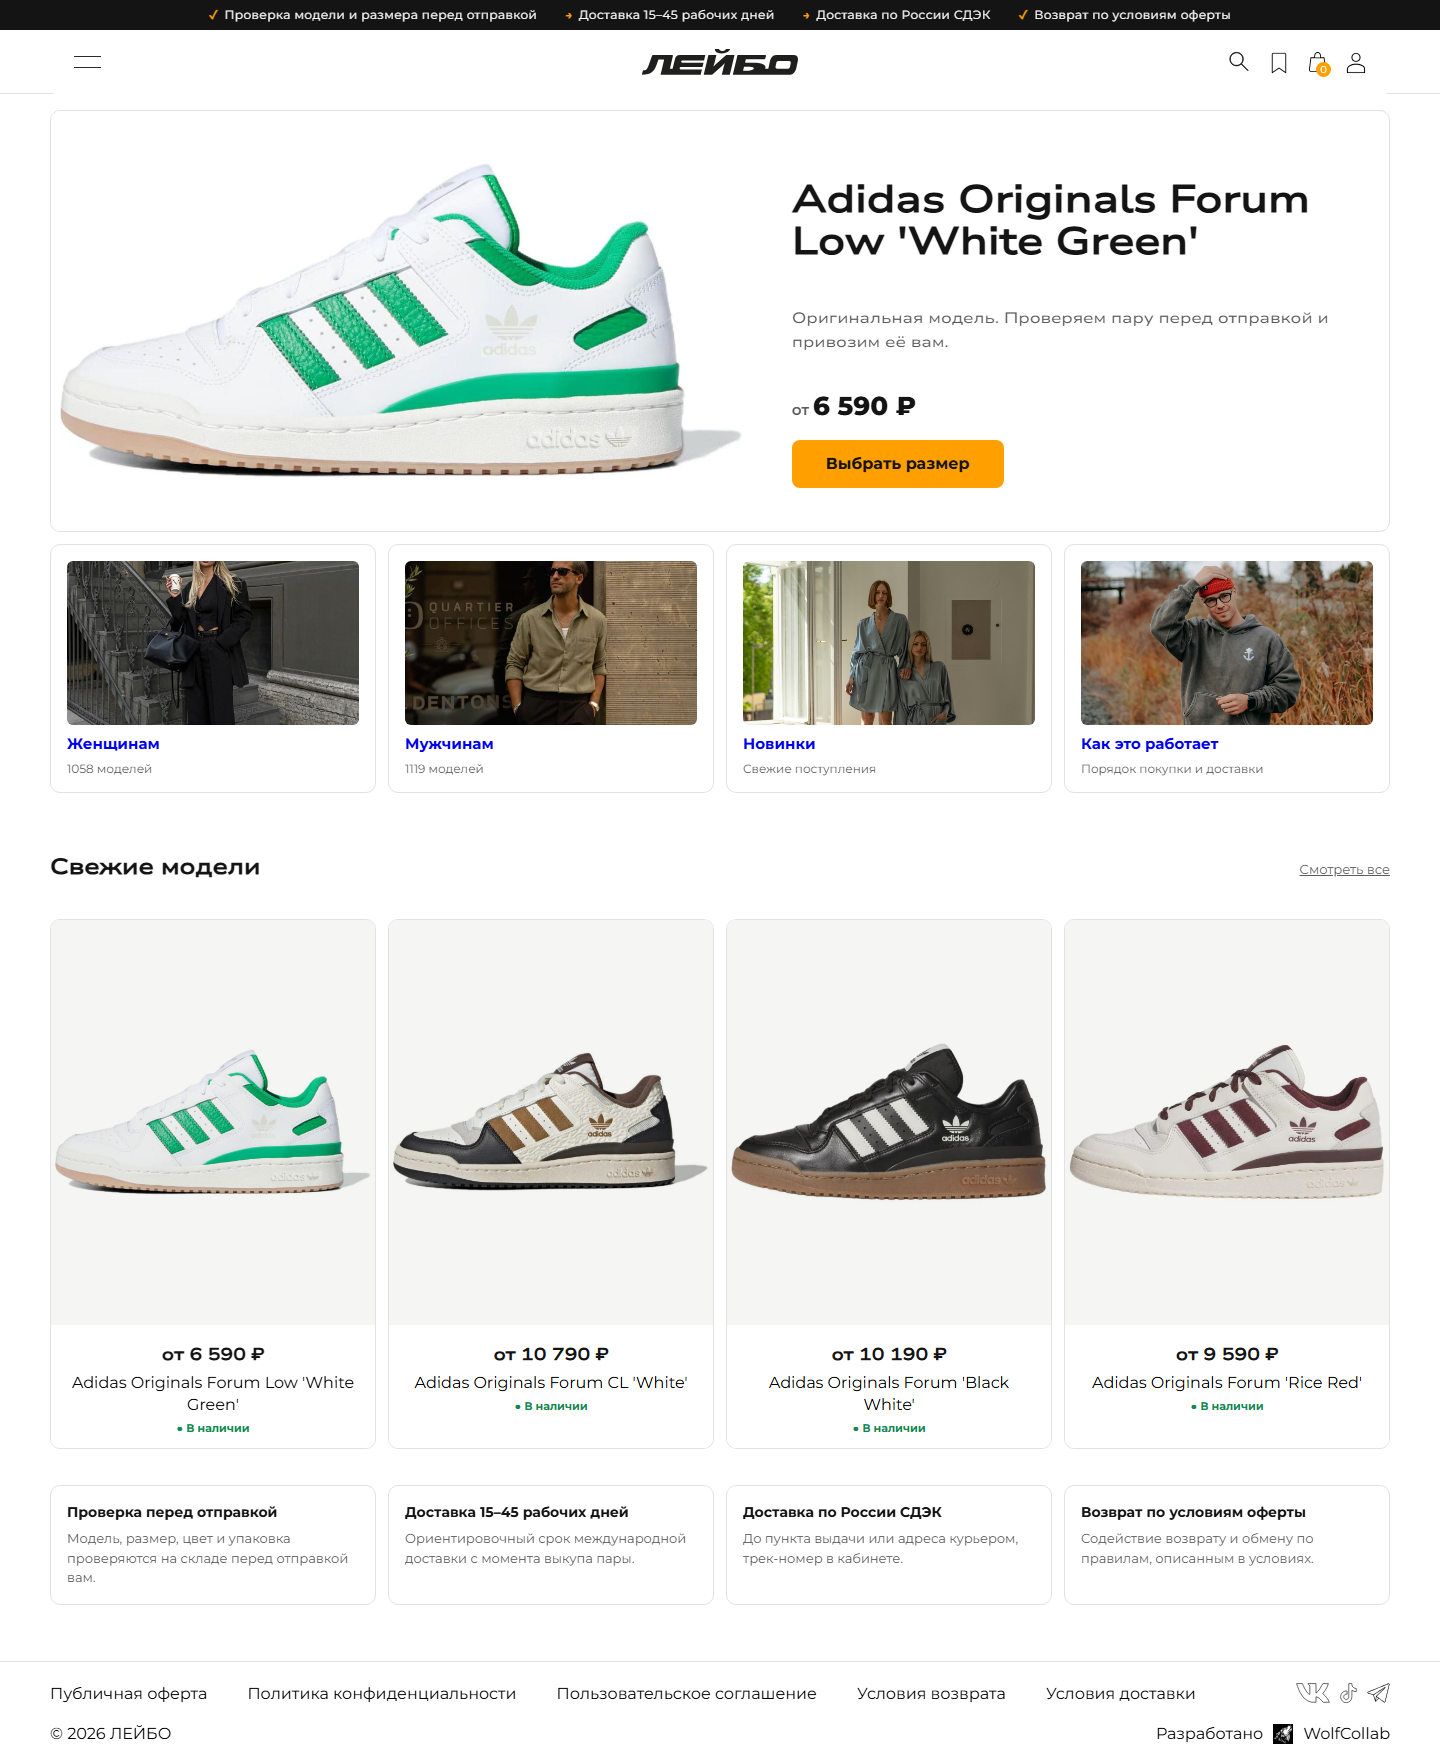
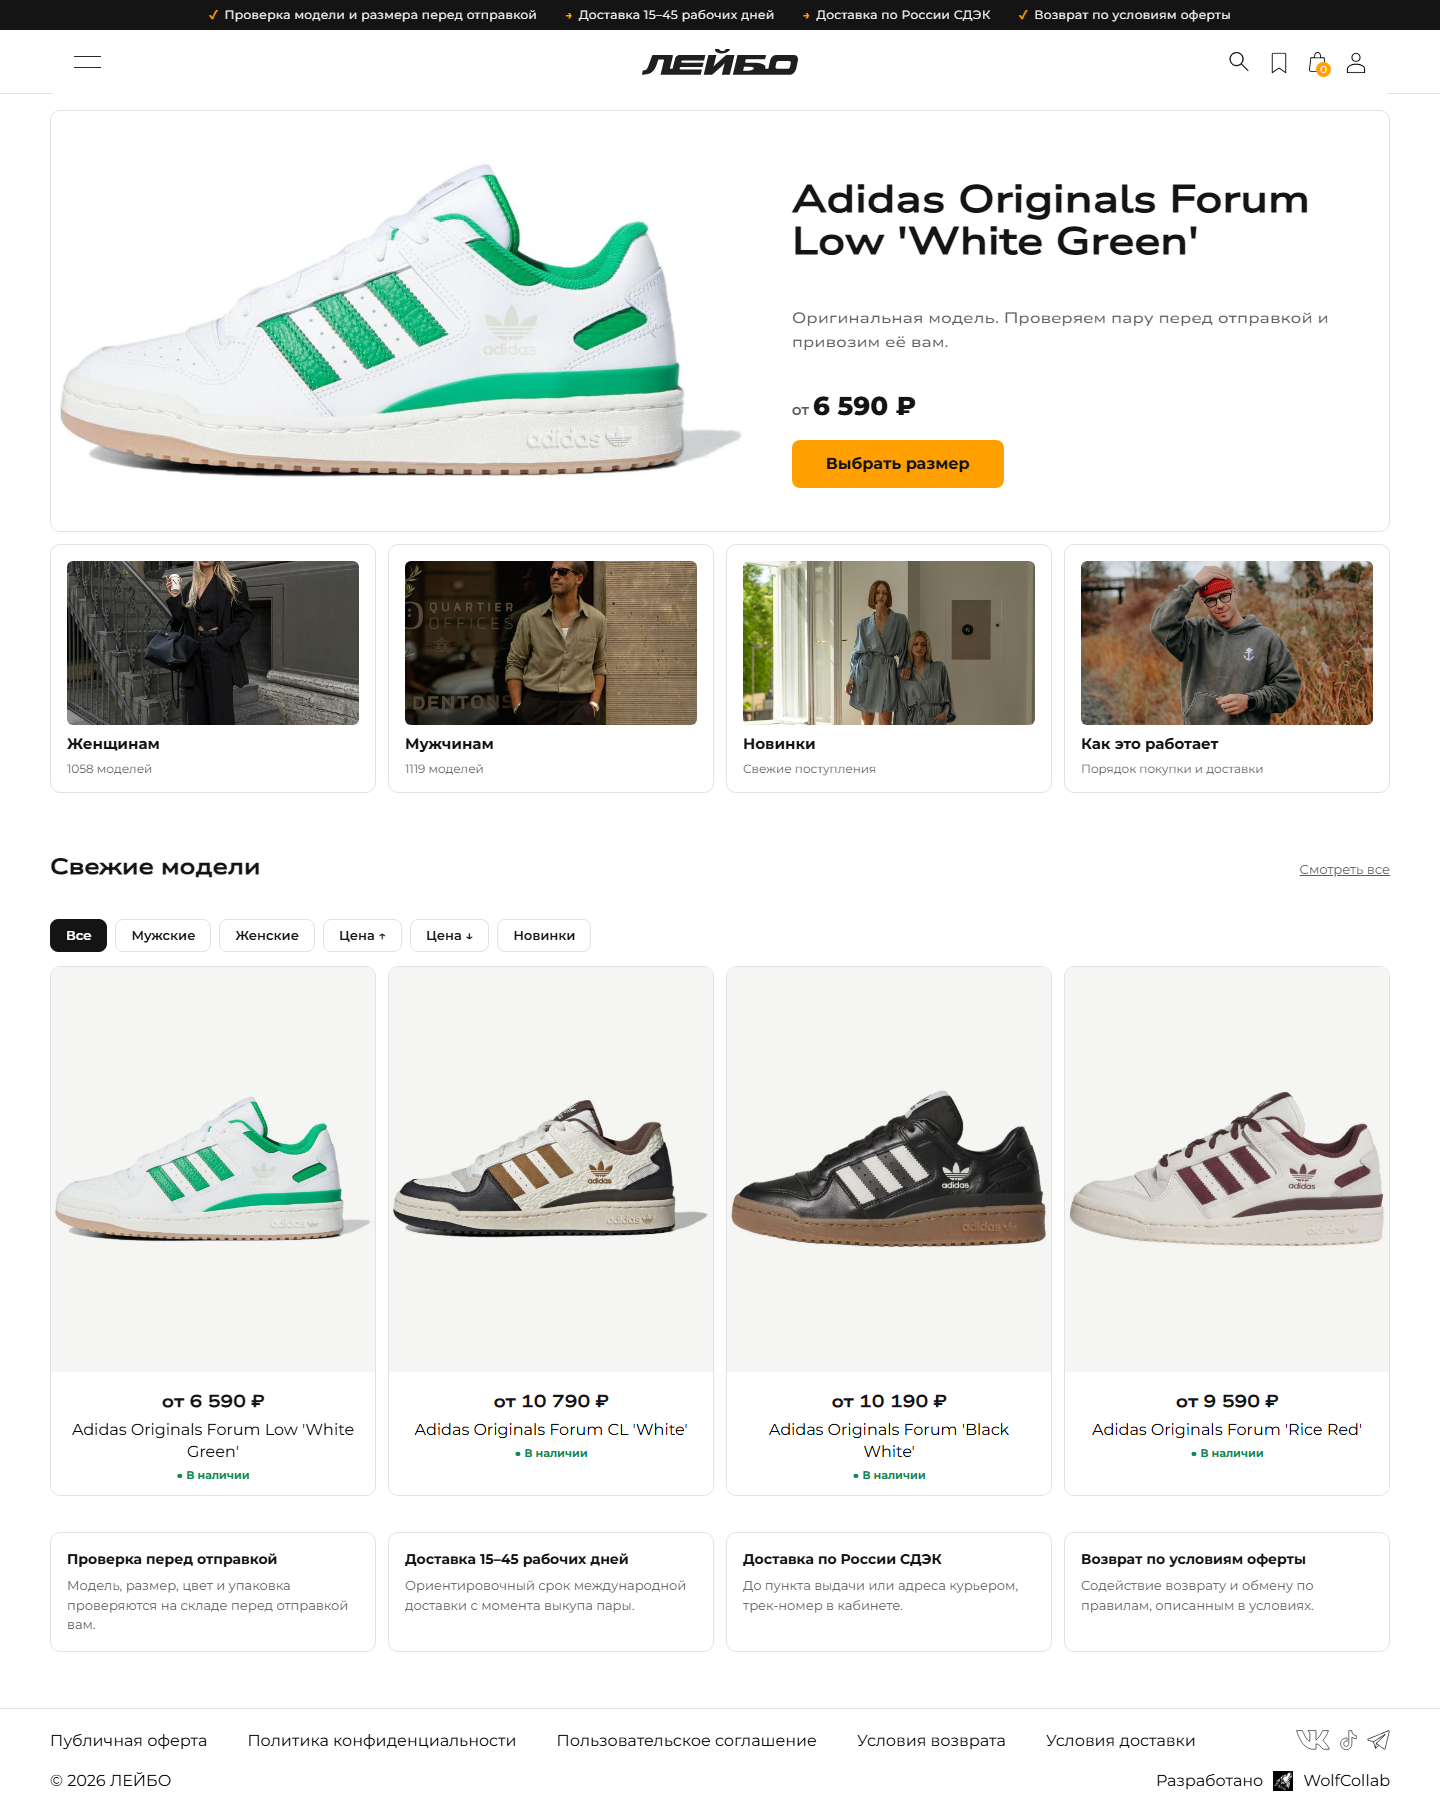
feat(stage3): full mockup C parity - hero price row with real sale data, filter chips, cart/checkout/account pass

diff --git a/wordpress/site/wp-content/themes/isart-theme/assets/css/c-components.css b/wordpress/site/wp-content/themes/isart-theme/assets/css/c-components.css
@@ -77,8 +77,16 @@ a { text-decoration: none; }
 .c-hero-text { font-family: var(--c-font-alt); color: var(--c-muted); font-size: 15px; line-height: 1.55; }
 .c-hero-price { font-size: 26px; font-weight: 800; }
 .c-hero-price small { font-size: 15px; font-weight: 600; color: var(--c-muted); }
+.c-hero-price del { color: var(--c-muted); font-weight: 500; font-size: 16px; margin-left: 8px; }
+.c-hero-benefit { color: var(--c-green); font-weight: 700; font-size: 14px; margin-top: -8px; }
 .c-hero-cta { background: var(--c-accent); color: var(--c-accent-ink); font-weight: 700; font-size: 16px; padding: 15px 34px; border-radius: var(--c-radius); }
 .c-hero-cta:hover { filter: brightness(.96); }
+
+/* Чипсы-фильтры (реальные ссылки на каталог) */
+.c-chips { display: flex; gap: 8px; flex-wrap: wrap; margin: 0 0 14px; }
+.c-chip { border: 1px solid var(--c-border); border-radius: 8px; padding: 8px 15px; font-size: 13px; font-weight: 600; background: #fff; color: var(--c-ink); }
+.c-chip:hover { border-color: var(--c-ink); }
+.c-chip.on { background: var(--c-ink); color: #fff; border-color: var(--c-ink); }
 
 .c-tiles { display: grid; grid-template-columns: repeat(4, 1fr); gap: var(--c-gap); margin-top: var(--c-gap); }
 .c-tile { border: 1px solid var(--c-border); border-radius: var(--c-radius-lg); padding: 16px; display: flex; flex-direction: column; gap: 10px; background: #fff; color: var(--c-ink); }
@@ -94,6 +102,73 @@ a { text-decoration: none; }
 
 /* ---------- Подвал ---------- */
 .main-footer { border-top: 1px solid var(--c-border); margin-top: 48px; }
+
+/* ---------- Корзина / Checkout / Кабинет: система C ---------- */
+.woocommerce-cart-form, .cart_totals, .woocommerce-checkout-review-order,
+#order_review, .woocommerce-account .woocommerce,
+.woocommerce-MyAccount-content, .checkout_coupon, .woocommerce-form-login,
+.woocommerce-form-resetpass, .u-column1, .u-column2 {
+  border: 1px solid var(--c-border); border-radius: var(--c-radius-lg); background: #fff;
+}
+.woocommerce-cart-form { padding: 20px; }
+.cart_totals, .woocommerce-checkout-review-order, #order_review { padding: 20px; }
+.woocommerce-cart-form table, .woocommerce-checkout-review-order-table,
+#order_review table { border: none !important; }
+.woocommerce-cart-form th, .woocommerce-cart-form td,
+.woocommerce-checkout-review-order th, .woocommerce-checkout-review-order td,
+#order_review th, #order_review td { border-top: 1px dashed var(--c-border) !important; padding: 12px 10px !important; }
+.woocommerce-cart-form thead th, .woocommerce-checkout-review-order thead th,
+#order_review thead th { border-top: none !important; font-size: 12px; letter-spacing: .06em; text-transform: uppercase; color: var(--c-muted); }
+.woocommerce a.remove { color: var(--c-red) !important; border-radius: 6px; }
+.woocommerce-checkout #payment { background: var(--c-card); border-radius: var(--c-radius); }
+#add_payment_method #payment, .woocommerce-cart #payment { border-radius: var(--c-radius); }
+
+.woocommerce form .form-row input.input-text, .woocommerce form .form-row textarea,
+.woocommerce form .form-row select, .select2-container--default .select2-selection--single,
+.woocommerce-input-wrapper input, .woocommerce-input-wrapper select {
+  border: 1px solid var(--c-border) !important; border-radius: var(--c-radius) !important;
+  padding: 11px 12px !important; font-size: 14px; background: #fff;
+  outline: none; box-shadow: none !important;
+}
+.select2-container--default .select2-selection--single { height: 42px !important; padding-top: 6px !important; }
+.select2-container--default .select2-selection--single .select2-selection__arrow { height: 40px !important; }
+.woocommerce form .form-row label { font-size: 13px; font-weight: 600; color: var(--c-ink); }
+.woocommerce form .form-row input.input-text:focus, .woocommerce form .form-row textarea:focus {
+  border-color: var(--c-accent) !important; box-shadow: var(--c-focus) !important;
+}
+.woocommerce #respond input#submit.alt, .woocommerce a.button.alt,
+.woocommerce button.button.alt, .woocommerce input.button.alt,
+.woocommerce-checkout #place_order, .woocommerce button[name="update_cart"],
+.woocommerce button[name="apply_coupon"], .woocommerce a.button.wc-forward {
+  background: var(--c-accent) !important; color: var(--c-accent-ink) !important;
+  border-radius: var(--c-radius) !important; font-weight: 700 !important; border: none !important;
+}
+.woocommerce button[name="update_cart"], .woocommerce button[name="apply_coupon"] { padding: 11px 20px; }
+.woocommerce-checkout #place_order { width: 100%; padding: 16px; font-size: 16px; }
+.woocommerce-message { border-top-color: var(--c-green); border-radius: var(--c-radius); }
+.woocommerce-error { border-top-color: var(--c-red); border-radius: var(--c-radius); }
+
+/* Кабинет */
+.woocommerce-MyAccount-navigation ul { list-style: none; margin: 0; padding: 0; }
+.woocommerce-MyAccount-navigation li { border: 1px solid var(--c-border); border-radius: var(--c-radius); margin-bottom: 8px; background: #fff; }
+.woocommerce-MyAccount-navigation a { display: block; padding: 12px 16px; font-weight: 600; font-size: 14px; color: var(--c-ink); }
+.woocommerce-MyAccount-navigation .is-active a { background: var(--c-ink); color: #fff; border-radius: var(--c-radius); }
+.woocommerce-account .entry-content, .woocommerce-account .woocommerce h2 { font-size: 18px; }
+
+/* ---------- Карточка товара ---------- */
+.single-product div.product .woocommerce-tabs ul.tabs li { border-radius: var(--c-radius) var(--c-radius) 0 0; }
+.single-product .summary .price, .single-product .current_price {
+  font-size: 28px !important; font-weight: 800 !important; color: var(--c-ink);
+}
+.single-product .summary del { color: var(--c-muted); font-weight: 500; font-size: 18px; }
+.single-product .summary ins { text-decoration: none; }
+.single-product .quantity .qty { border: 1px solid var(--c-border) !important; border-radius: var(--c-radius) !important; height: 46px; }
+.single-product .quantity .btn.minus, .single-product .quantity .btn.plus {
+  background: #fff; border: 1px solid var(--c-border); border-radius: 6px; width: 34px; height: 34px; font-size: 18px; color: var(--c-ink);
+}
+.single-product .product_meta { font-size: 13px; color: var(--c-muted); }
+.woocommerce-tabs h2, .related.products h2 { font-size: 20px; font-weight: 700; }
+.single-product .woocommerce-product-details__short-description { font-family: var(--c-font-alt); color: var(--c-muted); line-height: 1.6; }
 
 /* ---------- Мобильная нижняя навигация ---------- */
 .mobile-nav { background: #fff; border-top: 1px solid var(--c-border); box-shadow: 0 -4px 16px rgba(0,0,0,.05); }

diff --git a/wordpress/site/wp-content/themes/isart-theme/functions.php b/wordpress/site/wp-content/themes/isart-theme/functions.php
@@ -263,12 +263,25 @@ class StarterSite extends TimberSite
 			if (!$hp || !$hp->get_image_id()) { continue; }
 			$file = get_attached_file($hp->get_image_id());
 			if (!$file || !file_exists($file)) { continue; }
+			// Цена героя: если товар реально со скидкой — показываем
+			// «новая + старая зачёркнутая + выгода» из настоящих цен WooCommerce.
+			$hero_price = $hp->is_type('variable') ? $hp->get_variation_price('min', true) : $hp->get_price();
+			$hero_regular = null; $hero_benefit = 0;
+			if ($hp->is_on_sale()) {
+				$reg = $hp->is_type('variable') ? (float) $hp->get_variation_regular_price('min', true) : (float) $hp->get_regular_price();
+				if ($reg > 0 && $hero_price > 0 && $hero_price < $reg) {
+					$hero_regular = $reg;
+					$hero_benefit = (int) round($reg - $hero_price);
+				}
+			}
 			$context['home_hero'] = array(
 				'link' => $hp->get_permalink(),
 				'img' => wp_get_attachment_image_url($hp->get_image_id(), 'full'),
 				'title' => $hp->get_title(),
 				'is_variable' => ($hp->get_type() === 'variable'),
-				'price' => $hp->is_type('variable') ? $hp->get_variation_price('min', true) : $hp->get_price(),
+				'price' => $hero_price,
+				'price_regular' => $hero_regular,
+				'benefit' => $hero_benefit,
 				'is_new' => (bool) get_field('новинка', $hp->get_id()),
 			);
 			break;

diff --git a/docs/development-log/PROJECT_STATUS.md b/docs/development-log/PROJECT_STATUS.md
@@ -352,6 +352,7 @@
 - **product_render** (+ `sale_percent`, `sale_price`, `in_stock`): бейдж −X% считается из реальных regular/sale цен; наличие — из stock_status. Никаких выдуманных «Осталось N пар» (manage_stock выключен — количеств нет).
 - **Главная** (home.twig + context в functions.php): hero-оффер (последний товар с реально существующим локальным фото), тайлы Женщинам/Мужчинам с реальными счётчиками терминов (1058/1119), «Свежие модели» (4 карточки через единый product_render), trust-блок. Старый баннер ACF (leftBlock/rightBlock) снят с показа, данные в БД целы — откат через git.
 - Скриншоты v1: `design/stage3/{home,catalog,product}-desktop.png`, `home-mobile.png`.
+- **Доработка до полного соответствия макету C (2026-09-06)**: hero получил price-row из реальных цен (новая + старая зачёркнутая + зелёная «Выгода X ₽» — только когда товар фактически со скидкой); над «Свежими моделями» ряд чипсов-фильтров как реальные ссылки (Все/Мужские/Женские/Цена↑/Цена↓/Новинки → рабочие URL каталога); CSS-проход корзины/checkout/кабинета (карточки с рамками, инпуты radius 8, кнопки оранжевые, MyAccount-навигация, empty-state корзины); дотюнена карточка товара (цена 28px, quantity, табы, meta). Скриншоты: `home-desktop.png` (обновлён), `cart-desktop.png`, `account-desktop.png`.
 
 Ограничение данных (не дефект стиля): первые страницы каталога — товары 2026/08 без локальных фото (uploads не переносились), поэтому на скриншотах каталога заглушки. Для витрины с фото нужен свежий sync uploads с прода через Кирилла.
 
